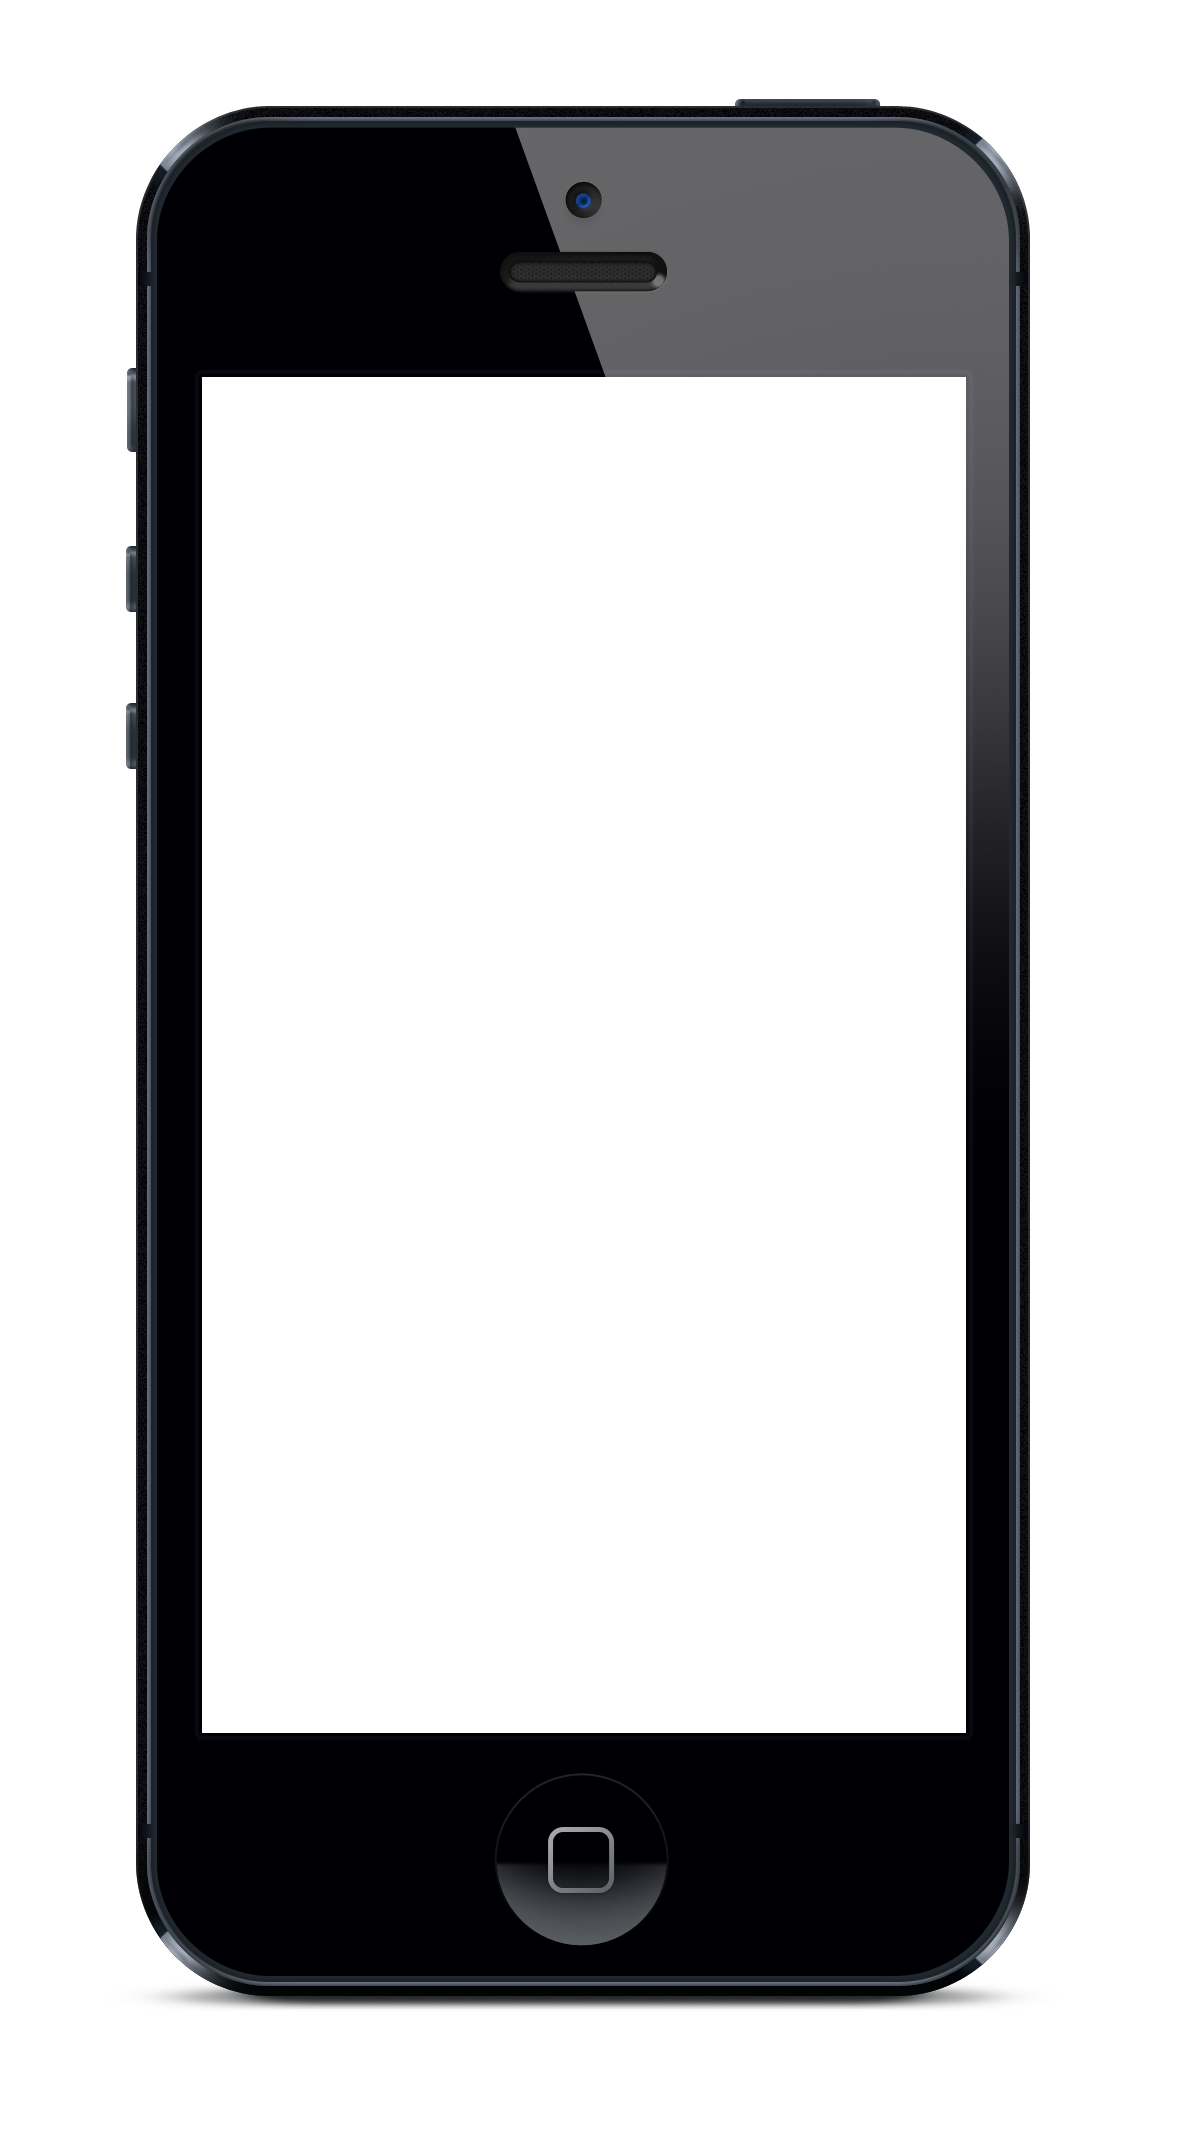
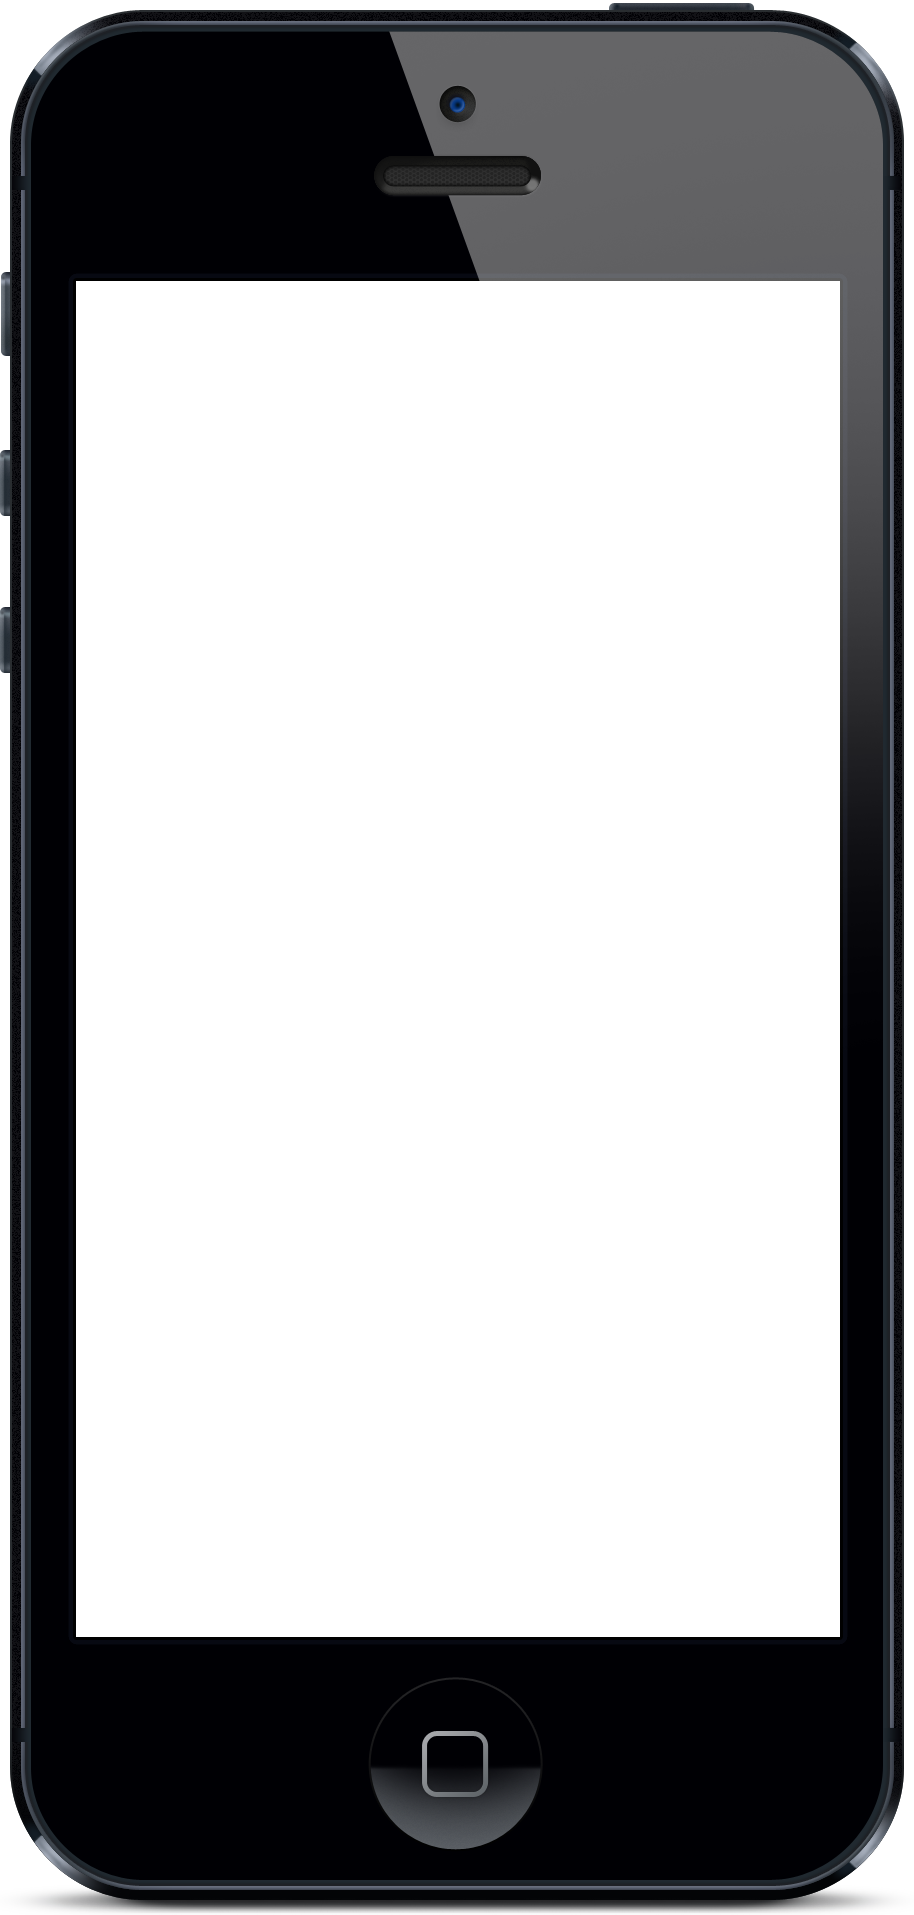
Fix lots. Became viable

diff --git a/app/constants/apps.js b/app/constants/apps.js
@@ -1,6 +1,6 @@
-const S3_URL = 'https://s3.amazonaws.com/alexpepper.us'
 module.exports = [
   {
+    isActive: true,
     id: 'musicwatch',
     name: 'MusicWatch',
     iTunesId: '418194060',
@@ -31,6 +31,7 @@ module.exports = [
     }
   },
   {
+    isActive: false,
     id: 'bookwatch',
     name: 'BookWatch',
     iTunesId: '433836067',
@@ -39,18 +40,18 @@ module.exports = [
       artworkUrl60: '',
       artworkUrl100: '',
       ipadScreenshotUrls: [
-        '',
-        '',
-        '',
-        ''
+        'https://w.alexpepper.us/apps/bookwatch/bookwatch-tablet-1.png',
+        'https://w.alexpepper.us/apps/bookwatch/bookwatch-tablet-2.png',
+        'https://w.alexpepper.us/apps/bookwatch/bookwatch-tablet-3.png',
+        'https://w.alexpepper.us/apps/bookwatch/bookwatch-tablet-4.png'
       ],
-      artworkUrl512: '',
+      artworkUrl512: 'https://w.alexpepper.us/apps/bookwatch/bookwatch-icon.png',
       screenshotUrls: [
-        '',
-        '',
-        '',
-        '',
-        ''
+        'https://w.alexpepper.us/apps/bookwatch/bookwatch-phone-1.png',
+        'https://w.alexpepper.us/apps/bookwatch/bookwatch-phone-2.png',
+        'https://w.alexpepper.us/apps/bookwatch/bookwatch-phone-3.png',
+        'https://w.alexpepper.us/apps/bookwatch/bookwatch-phone-4.png',
+        'https://w.alexpepper.us/apps/bookwatch/bookwatch-phone-5.png'
       ],
       description: "BookWatch tracks new book and audiobook releases from your favorite authors, so you don't have to.\n\nBookWatch automatically detects the authors already in your audiobook library, and finds their latest releases. You can also use the Authors menu to add or remove authors. Then, pull to refresh any time to check for new releases.",
       releaseDate: '2011-05-06T21:09:55Z',
@@ -61,6 +62,7 @@ module.exports = [
     }
   },
   {
+    isActive: true,
     id: 'appwatch',
     name: 'AppWatch',
     iTunesId: '483322926',
@@ -92,6 +94,7 @@ module.exports = [
     }
   },
   {
+    isActive: true,
     id: 'all-flags',
     name: 'All Flags',
     iTunesId: '791061374',
@@ -123,6 +126,7 @@ module.exports = [
     }
   },
   {
+    isActive: true,
     id: 'i-ching',
     name: 'I Ching',
     iTunesId: '438132417',
@@ -130,6 +134,7 @@ module.exports = [
     iTunesData: {}
   },
   {
+    isActive: true,
     id: 'tao-te-ching',
     name: 'Tao Te Ching',
     iTunesId: '441873577',
@@ -137,6 +142,7 @@ module.exports = [
     iTunesData: {}
   },
   {
+    isActive: true,
     id: 'hua-hu-ching',
     name: 'Hua Hu Ching',
     iTunesId: '443828767',
@@ -144,6 +150,7 @@ module.exports = [
     iTunesData: {}
   },
   {
+    isActive: true,
     id: 'art-of-war',
     name: 'Art of War',
     iTunesId: '443829823',

diff --git a/client/src/components/AppVideo.vue b/client/src/components/AppVideo.vue
@@ -21,8 +21,8 @@ export default {
 
   .ios-video {
     position: absolute;
-    top: 118px;
-    left: 33px;
+    top: 116px;
+    left: 30px;
   }
 
   .ios-video > video {
@@ -38,8 +38,8 @@ export default {
     }
 
     .ios-video {
-      top: 88px;
-      left: 24px;
+      top: 86px;
+      left: 22px;
     }
 
     .ios-video > video {

diff --git a/README.md b/README.md
@@ -1,0 +1,3 @@
+
+Docker config based on the article
+[How To Secure a Containerized Node.js Application with Nginx, Let's Encrypt, and Docker Compose](https://www.digitalocean.com/community/tutorials/how-to-secure-a-containerized-node-js-application-with-nginx-let-s-encrypt-and-docker-compose)
